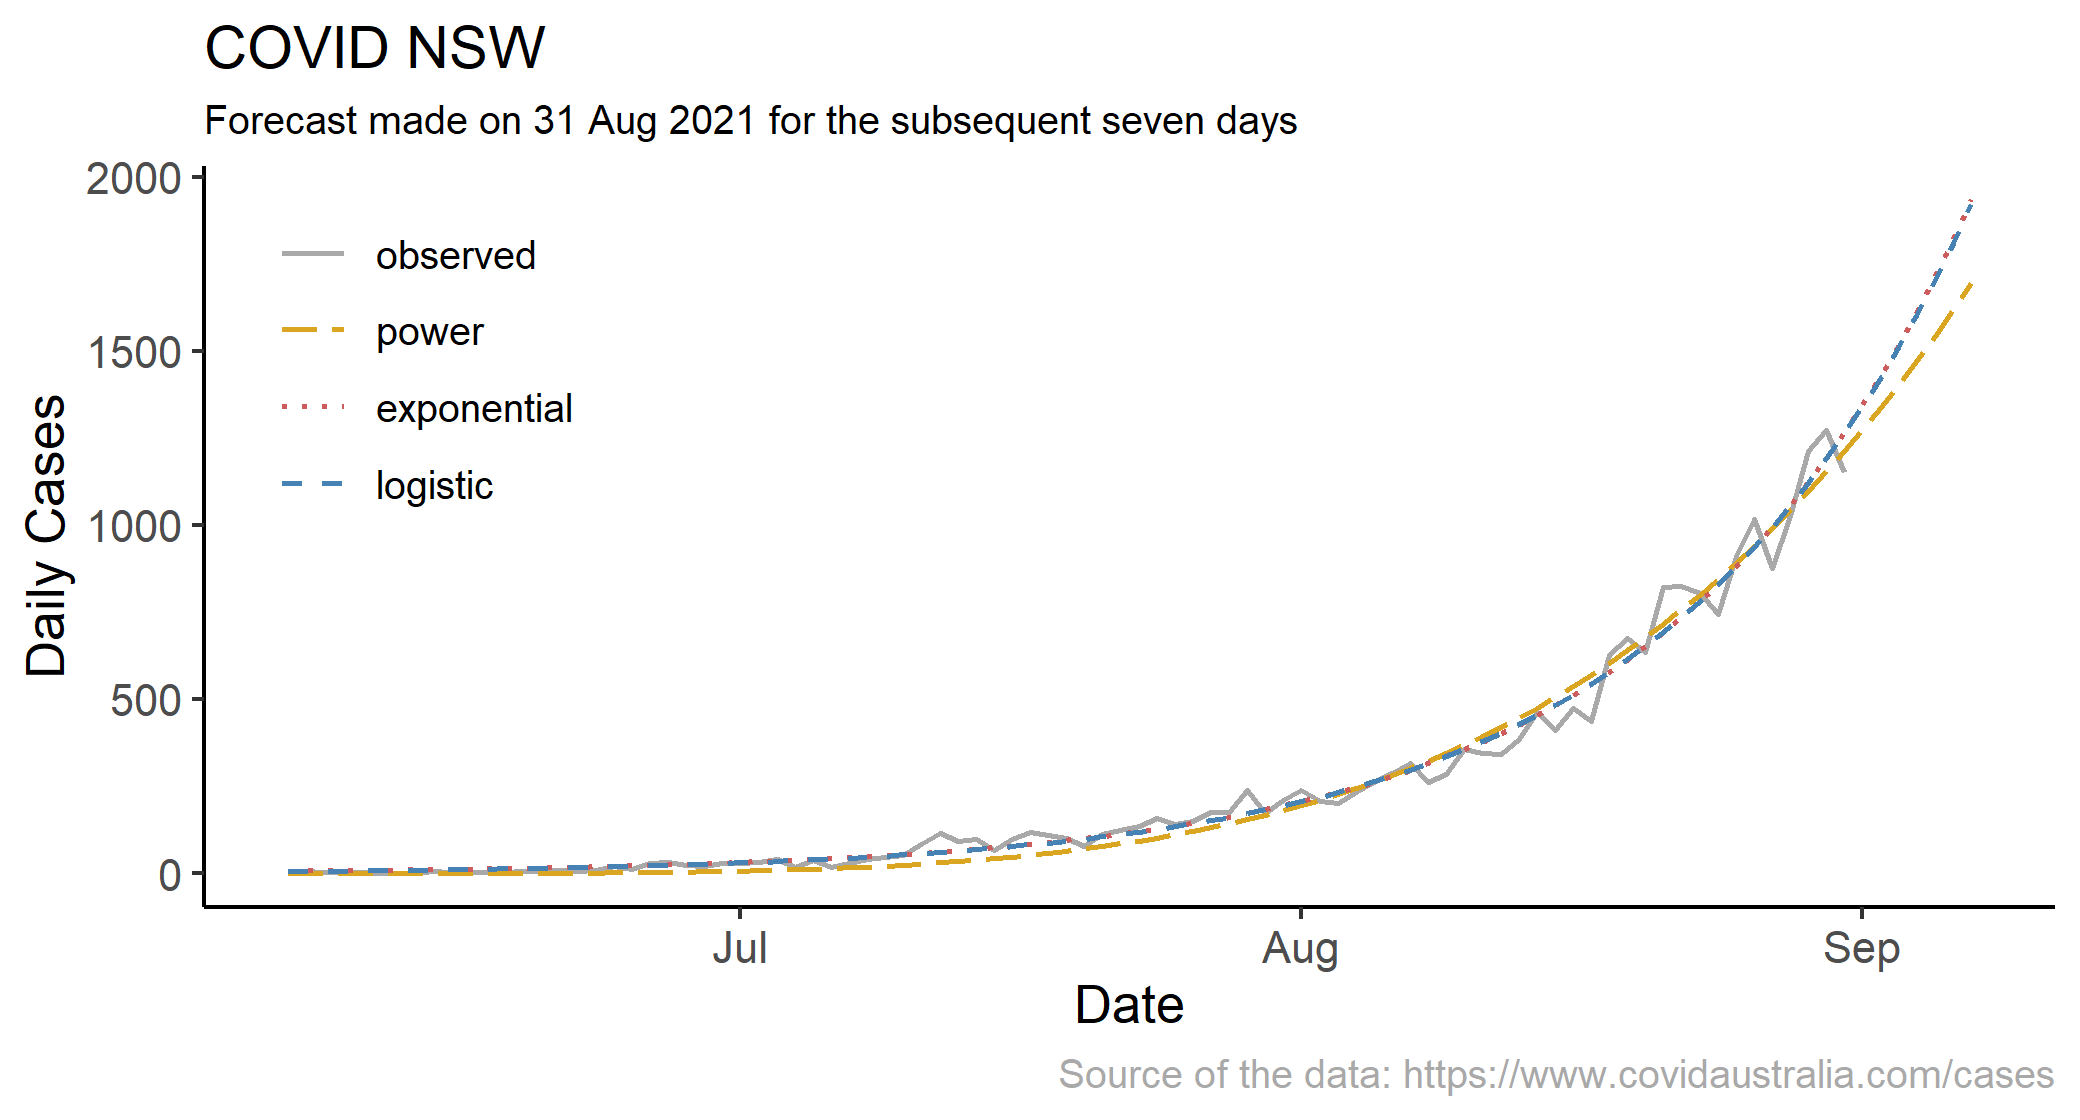
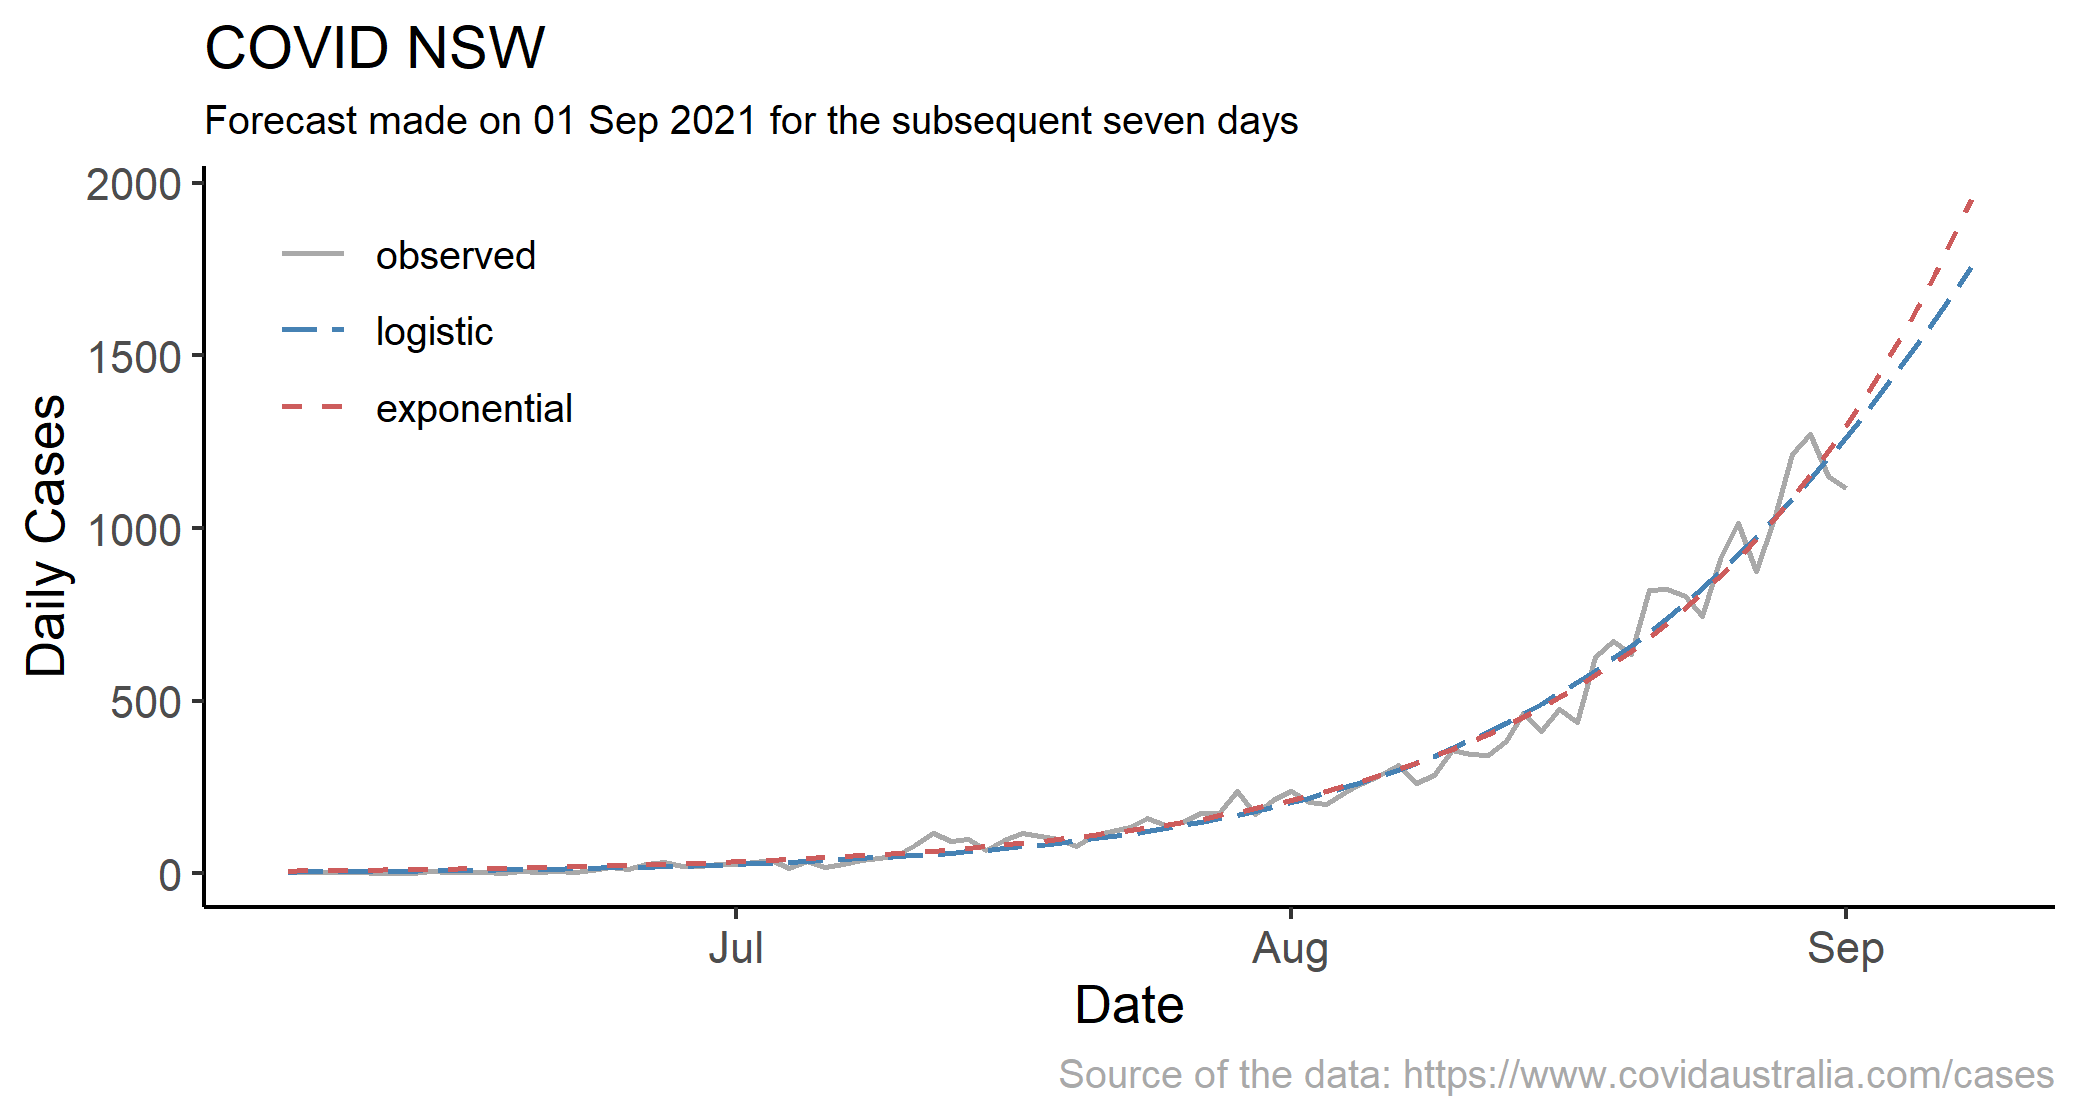
updated forecast code, graphs, and readme

diff --git a/README.md b/README.md
@@ -8,8 +8,8 @@ But there is more to that. With this project, I have combined two important topi
 
 I use the data obtained from the [COVID Australia](https://www.covidaustralia.com/) project. 
 
-The main model of interest is a smooth transition model given by: $$y_t = \alpha+\beta G(t;\gamma,c)+\varepsilon_t,$$ where $y_t$ is the number of cases in a given day, denoted by $t$, and $G(t;\gamma,c) = (1+\exp(-\gamma(t-c)))^{-1}$ is the *logistic* smooth transition function, bounded by zero and one, where $\gamma$ and $c$ are the 'smoothness' and 'centrality' parameters to be estimated; $\varepsilon_t$ is an error term with the usual assumptions. These model will fit the data well in the beginning of the 'wave' but not subsequently. At some point, a better representation will be the *exponential* smooth transition function: $G(t;\gamma,c) = 1-\exp(-\gamma(t-c)^2)$, which is also bounded by zero and one.
+The main model of interest is a smooth transition model given by: $$y_t = \alpha+\beta G(t;\gamma,c)+\varepsilon_t,$$ where $y_t$ is the number of cases in a given day, denoted by $t$, and $G(t;\gamma,c) = (1+\exp(-\gamma(t-c)))^{-1}$ is the *logistic* smooth transition function, bounded by zero and one, where $\gamma$ and $c$ are the 'smoothness' and 'centrality' parameters to be estimated; $\varepsilon_t$ is an error term with the usual assumptions. These model will fit the data well in the beginning of the 'wave' but not subsequently. At some point, a better representation will be the multiple-regime smooth transition model, such as, for example: $$y_t = \alpha+\beta_1 G_1(t;\gamma_1,c_1)+\beta_2 G_2(t;\gamma_2,c_2)+\beta_{12} G_1(t;\gamma_1,c_1) G_2(t;\gamma_2,c_2)+\varepsilon_t,$$ where $c_2 > c_1$. This will, potentially, allow for a turning point in the data.
 
-The alternative models I consider are the power trend model and the exponential trend model, respectively given by $y_t=\alpha+t^{\beta}$ and $y_t=\exp(\alpha+\beta t)$. These models will fit the data well in the beginning of the 'wave' but not subsequently.
+As an alternative model, I consider the exponential trend model: $y_t=\exp(\alpha+\beta t)$. This model is expected to fit the data well in the beginning of the 'wave' but not subsequently.
 
 
